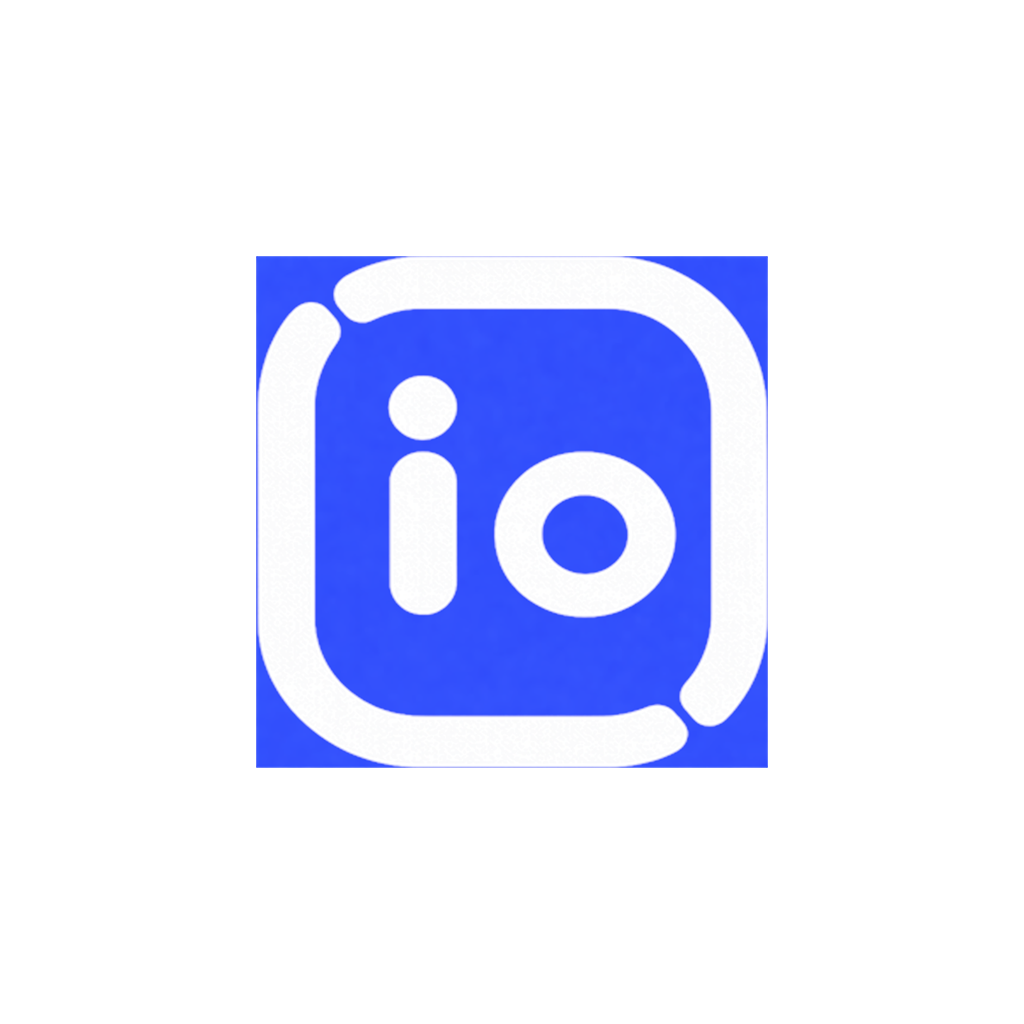
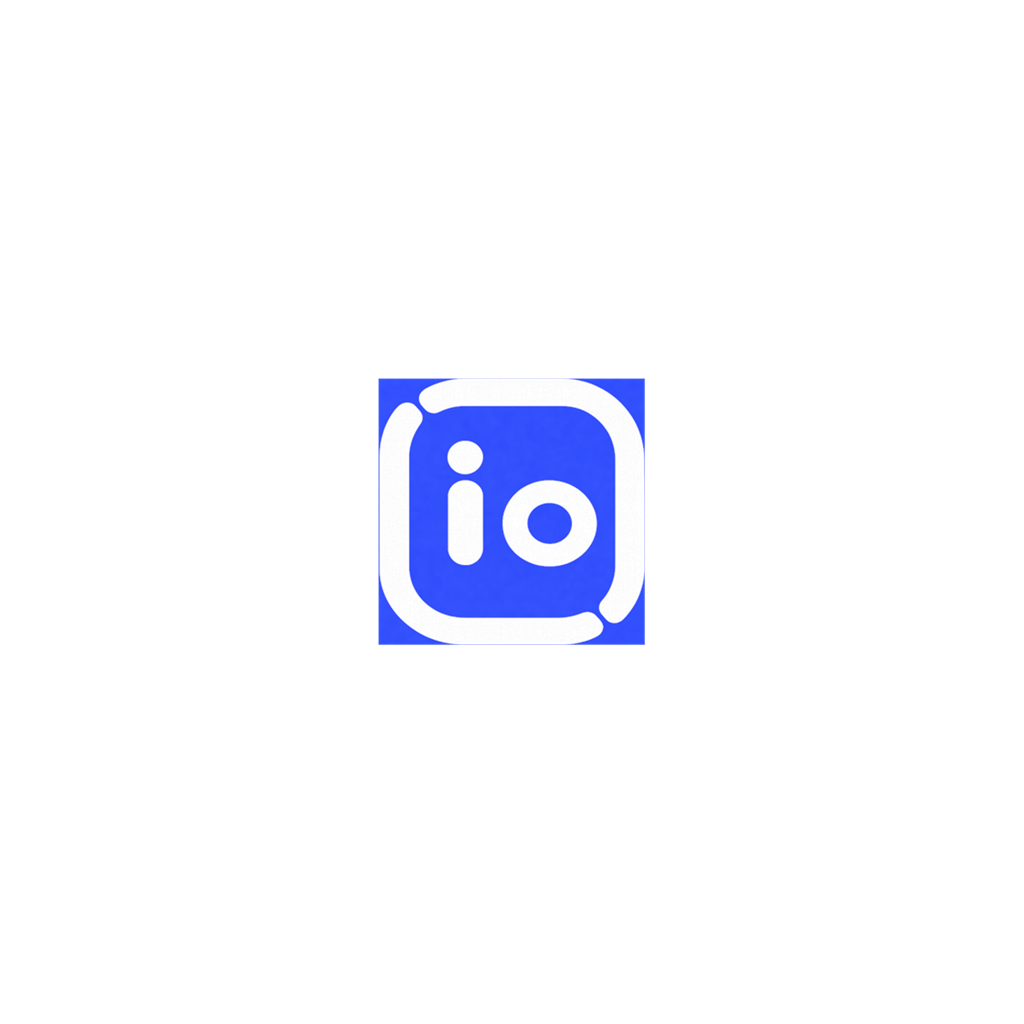
chore: sync current local changes

Changed region(s): [[0.25, 0.25, 0.75, 0.75], [0.625, 0.25, 0.75, 0.375]]

diff --git a/apps/harmony/entry/src/main/ets/common/utils/TweetEntryPresentation.ts b/apps/harmony/entry/src/main/ets/common/utils/TweetEntryPresentation.ts
@@ -1100,11 +1100,26 @@ export function presentTweetEntryFromCard(card: {
 
   return {
     ...presentation,
-    displayName: feedDisplayName || presentation.displayName,
+    displayName: normalizeFinalDisplayName(
+      feedDisplayName || presentation.displayName,
+    ),
     username:
       presentation.username || normalizeUsernameLabel(extractUsername(source)),
     avatarUrl: sourceAvatarUrl || presentation.avatarUrl,
   }
+}
+
+function normalizeFinalDisplayName(value: string): string {
+  const trimmed = trimValue(value)
+  if (!trimmed) {
+    return ''
+  }
+
+  return trimmed
+    .replace(/\s*[/-]\s*@\s*[a-z0-9_]{1,15}\s*$/i, '')
+    .replace(/\s+@\s*[a-z0-9_]{1,15}\s*$/i, '')
+    .replace(/\s*-\s*(?:x|ins)\s*$/i, '')
+    .trim()
 }
 
 function resolveFeedDisplayName(feedTitle: string, articleUrl: string): string {
@@ -1112,5 +1127,9 @@ function resolveFeedDisplayName(feedTitle: string, articleUrl: string): string {
   if (!trimmed) {
     return ''
   }
-  return normalizeSocialFeedTitle(trimmed, articleUrl, '')
+  const normalized = normalizeSocialFeedTitle(trimmed, articleUrl, '')
+  return normalized
+    .replace(/\s*-\s*(?:x|ins)\s*$/i, '')
+    .replace(/\s+@[a-z0-9_]{1,15}\s*$/i, '')
+    .trim()
 }

diff --git a/apps/harmony/entry/src/main/ets/common/utils/SocialFeedTitles.ts b/apps/harmony/entry/src/main/ets/common/utils/SocialFeedTitles.ts
@@ -177,6 +177,27 @@ export function extractXUsername(value: string): string {
     return decodeURIComponent(rsshub[1]).replace(/^@/, '').trim().toLowerCase()
   }
 
+  const host = getHostLike(trimmed)
+  if (looksLikeUrl(trimmed) && isKnownXHost(host)) {
+    const knownPath = pathLike.match(/^\/([^/?#]+)(?:\/|$)/)
+    const firstSegment = decodeURIComponent(knownPath?.[1] || '')
+      .replace(/^@/, '')
+      .trim()
+      .toLowerCase()
+    if (
+      firstSegment &&
+      firstSegment !== 'home' &&
+      firstSegment !== 'explore' &&
+      firstSegment !== 'search' &&
+      firstSegment !== 'hashtag' &&
+      firstSegment !== 'i' &&
+      firstSegment !== 'intent' &&
+      firstSegment !== 'share'
+    ) {
+      return isLikelyXHandle(firstSegment) ? firstSegment : ''
+    }
+  }
+
   if (looksLikeUrl(trimmed) && !isKnownXHost(getHostLike(trimmed))) {
     return ''
   }